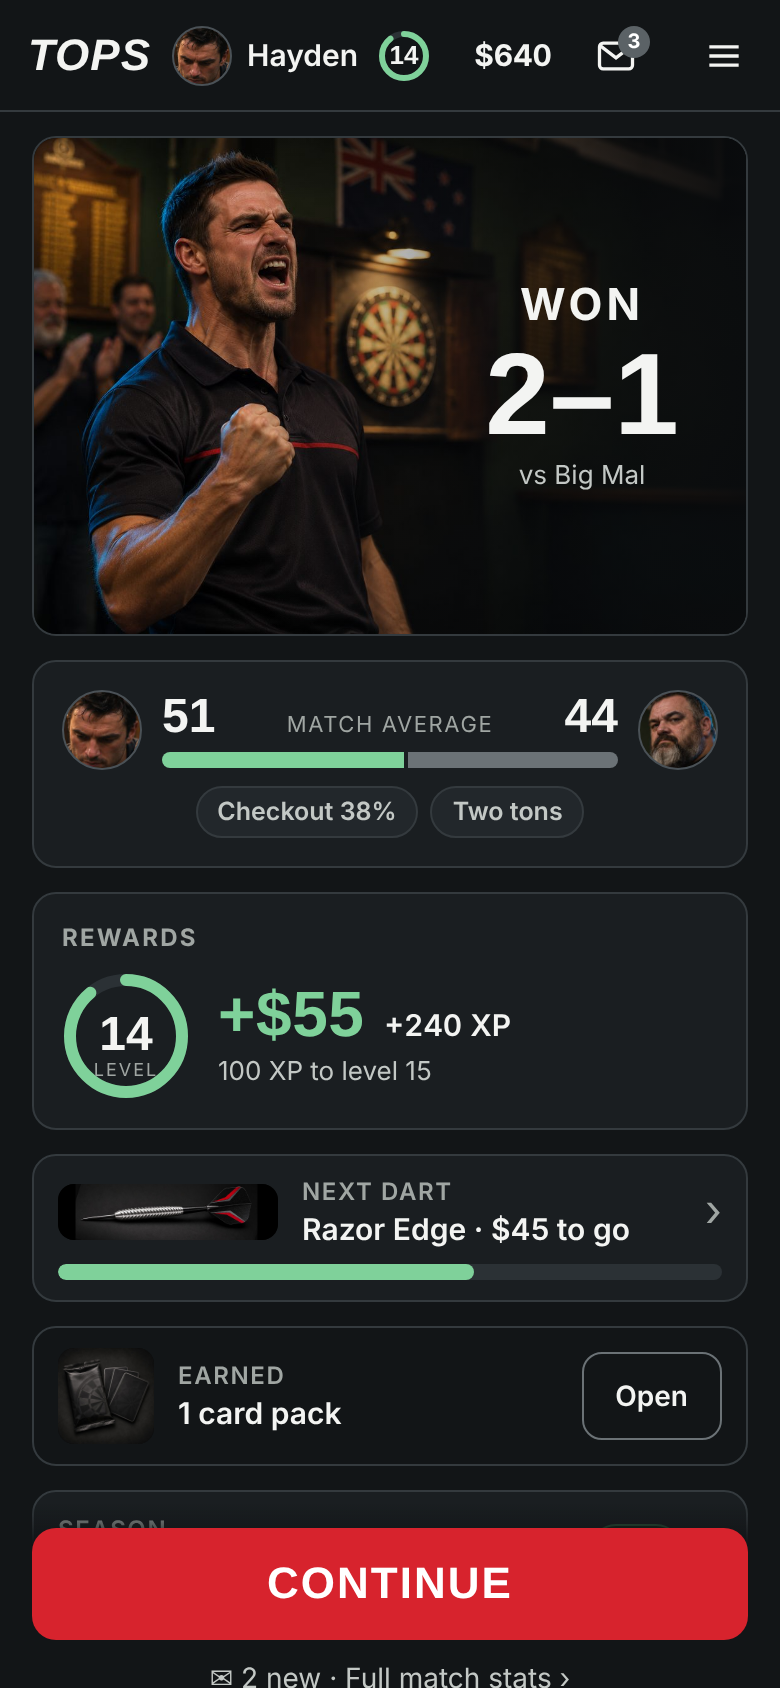
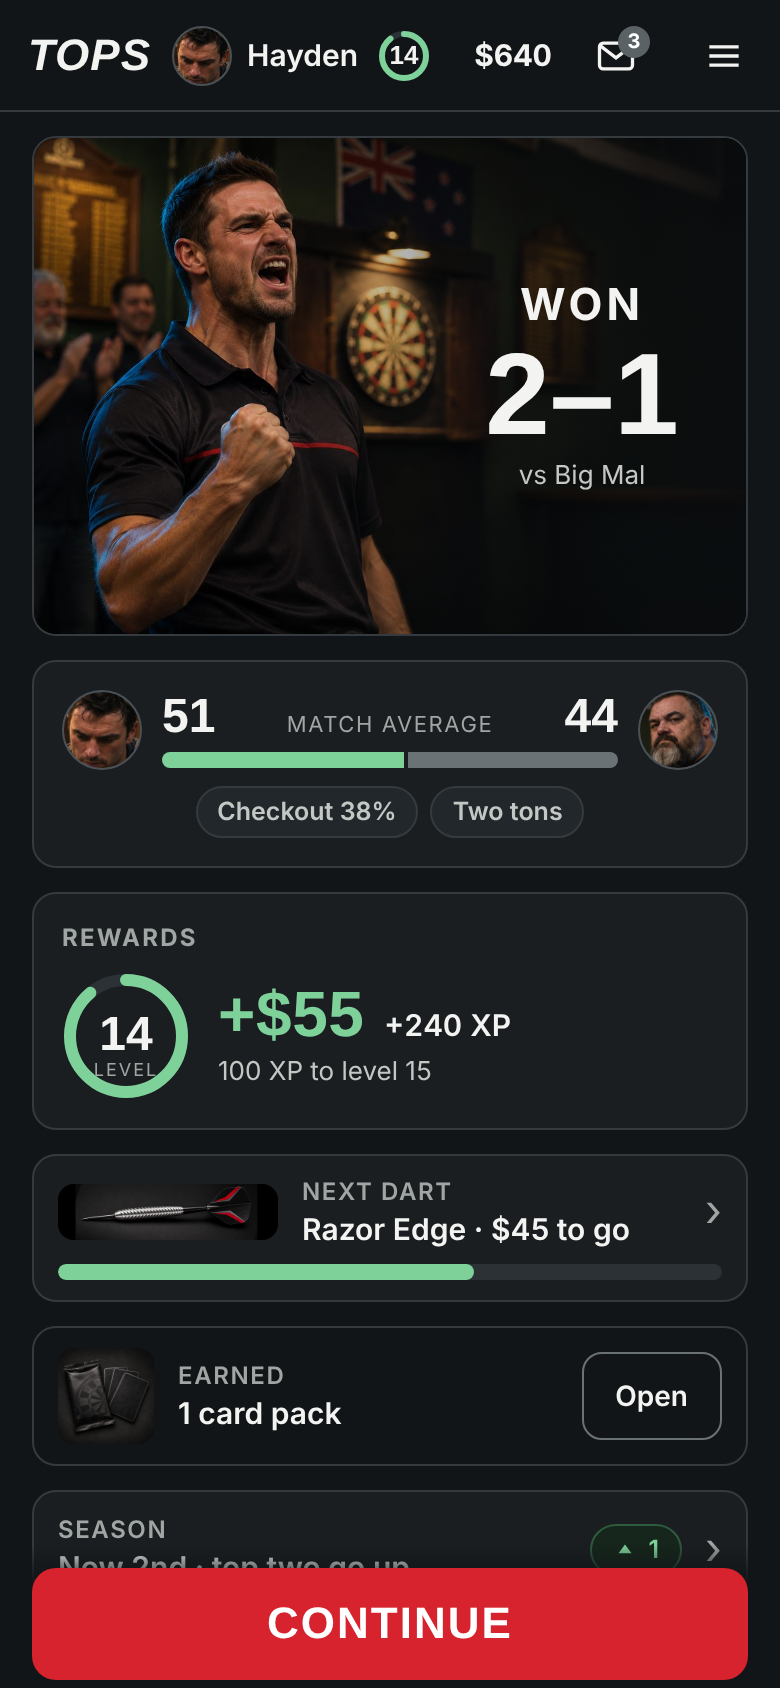
EXP-UX v9.1 frozen: ChatGPT 8.7 APPROVE; shirt tile says coming soon, Result clearance above Continue; design-critique v9
Claude-Session: https://claude.ai/code/session_01WmQEKYuzjKWgLqY2q8YZP3

Changed region(s): [[0.0308, 0.8934, 0.9846, 1.0]]

diff --git a/wip/ux/proto/index.html b/wip/ux/proto/index.html
@@ -287,7 +287,7 @@ function locker(){const k=kit(),seg=`<div class="seg" role="tablist">${[['load',
   <div class="mlab"><span><span style="display:inline-block;width:10px;height:6px;border-radius:2px;background:var(--good);margin-right:5px"></span>You</span><span><span style="display:inline-block;width:10px;height:6px;border-radius:2px;background:repeating-linear-gradient(135deg,#7fd19a 0 3px,#2f5a3e 3px 6px);margin-right:5px"></span>From your darts</span><span>Cap ${CAP} at the Club</span></div></div>
  <div class="sh" style="margin-top:2px"><h3>Kit</h3></div>
  <div class="g2"><button class="card" type="button" data-go="shop" data-sel="${S.eq}" style="padding:0;gap:0;overflow:hidden"><div class="slot sq"><div class="im" style="background-image:url(img/g_dsq_${d.id}.jpg)"></div><span class="chip" style="position:absolute;left:8px;top:8px">Equipped</span></div><div style="padding:10px 12px 12px;display:flex;flex-direction:column;gap:2px"><small class="kick" style="font-size:11px">Darts</small><span class="t2" style="font-size:14px">${d.n}</span><span class="sub" style="font-size:12.5px">Change in Shop ›</span></div></button>
-  <button class="card" type="button" id="kitShirt" style="padding:0;gap:0;overflow:hidden"><div class="slot sq"><div class="im" style="background-image:url(img/g_shirt.jpg)"></div><span class="chip" style="position:absolute;left:8px;top:8px">Wearing</span></div><div style="padding:10px 12px 12px;display:flex;flex-direction:column;gap:2px"><small class="kick" style="font-size:11px">Shirt</small><span class="t2" style="font-size:14px">Charcoal, red stripe</span><span class="sub" style="font-size:12.5px">Change in Shop ›</span></div></button></div>
+  <button class="card" type="button" id="kitShirt" style="padding:0;gap:0;overflow:hidden"><div class="slot sq"><div class="im" style="background-image:url(img/g_shirt.jpg)"></div><span class="chip" style="position:absolute;left:8px;top:8px">Wearing</span></div><div style="padding:10px 12px 12px;display:flex;flex-direction:column;gap:2px"><small class="kick" style="font-size:11px">Shirt</small><span class="t2" style="font-size:14px">Charcoal, red stripe</span><span class="sub" style="font-size:12.5px">Shirts coming soon</span></div></button></div>
  ${S.packs?row({k:'Cards',t:S.packs+' pack'+(S.packs>1?'s':'')+' waiting',left:'<div class="slot sq r8" style="width:44px"><div class="im" style="background-image:url(img/g_pack.jpg)"></div></div>',id:'toCards'}):''}`;}
 function result(){const L=S.lost,E=S.mode==='exh',M=S.mode==='money',r=S.rw||{cash:55,xp:240};
  const up=S.xp.lv>S.xp.preLv;
@@ -299,14 +299,14 @@ function result(){const L=S.lost,E=S.mode==='exh',M=S.mode==='money',r=S.rw||{ca
   `<button class="row" type="button" data-go="shop" data-sel="razor" style="flex-direction:column;align-items:stretch;gap:8px"><span style="display:flex;align-items:center;gap:12px"><div class="slot dart r8" style="width:110px;flex:0 0 110px"><div class="im" style="background-image:url(img/g_ds_razor.jpg)"></div></div><span class="tx"><small>Next dart</small><span class="t2">Razor Edge · $45 to go</span></span><span class="chev">›</span></span><div class="bar"><i style="width:${(120-45)/120*100}%"></i></div></button>`;
  const pack=S.packs?`<div class="row" style="cursor:default;background:var(--bg)"><div class="slot sq r8" style="width:48px"><div class="im" style="background-image:url(img/g_pack.jpg)"></div></div><span class="tx"><small>Earned</small><span class="t2">1 card pack</span></span><button class="ghost" type="button" id="rOpen">${S.rOpened?'Opened':'Open'}</button></div>`:'';
  const tbl=M||E?row({k:'Season',t:'Table unchanged',s:M?'Money matches don’t count':'Exhibitions don’t count',go:'season'}):`<button class="row" type="button" data-go="season"><span class="tx"><small>Season</small><span class="t2">${L?'Now 4th · 2 pts off 2nd':'Now 2nd · top two go up'}</span></span><span class="chip ${L?'':'g'}" style="${L?'color:var(--bad)':''}">${L?IC.dn+' 1':IC.up+' 1'}</span><span class="chev">›</span></button>`;
- return head+h2h+rewards+want+pack+tbl+`<button class="link" type="button" id="rMsgs" style="align-self:center;color:var(--ink2)">✉ 2 new · Full match stats ›</button><div style="height:8px"></div><div class="pin"><button class="primary" type="button" id="cont"><b>Continue</b></button></div>`;}
+ return head+h2h+rewards+want+pack+tbl+'<div style="height:28px"></div>'+`<button class="link" type="button" id="rMsgs" style="align-self:center;color:var(--ink2)">✉ 2 new · Full match stats ›</button><div style="height:8px"></div><div class="pin"><button class="primary" type="button" id="cont"><b>Continue</b></button></div>`;}
 function practice(){const td=S.tryDart?DARTS.find(x=>x.id===S.tryDart):null;return (td?`<div class="card" style="flex-direction:row;align-items:center;gap:12px"><div class="slot dart r8" style="width:120px"><div class="im" style="background-image:url(img/g_ds_${td.id}.jpg)"></div></div><div style="flex:1"><small class="kick" style="font-size:11px">Free try</small><div class="t2">${td.n}</div><div class="sub">One session · no XP or money</div></div></div>`:'')+`<div class="hero" style="height:180px"><div class="im" style="background-image:url(img/g_locker.jpg);background-position:30% 40%;filter:brightness(.7)"></div><div class="tx"><span class="kick">Practice · free</span><span class="big" style="font-size:34px">Round the Clock</span><div class="chips">${chip('Doubles 14%','l')}${chip('+20 XP · capped','g')}</div></div></div><button class="primary" type="button" id="prGo"><b>Start practice</b></button><div class="card"><span class="sub">The Practice tab gets its own round. This stub answers the links that point here.</span></div>`;}
 /* ---------- shell ---------- */
 const TABS=[['tonight','Tonight'],['season','Season'],['shop','Shop'],['locker','Locker'],['practice','Practice']];
 function hdr(){$('#hdRing').innerHTML=ring(pct(),S.xp.lv,30);$('#bank').textContent=money(S.bank);$('#msgN').hidden=!S.msgs;$('#msgN').textContent=S.msgs;}
 function render(){const res=S.tab==='result';$('#tabs').hidden=res;
  $('#tabs').innerHTML=TABS.map(([k,n])=>`<button role="tab" data-tab="${k}" aria-selected="${S.tab===k}">${n}${k==='locker'&&(S.pts||S.packs)?'<i class="dot" aria-label="something waiting"></i>':''}</button>`).join('');
- const f={tonight,season,shop,locker,result,practice}[S.tab];$('#main').innerHTML=`<section class="scr" data-scr="${S.tab}">${f()}</section>`;hdr();wire();}
+ const f={tonight,season,shop,locker,result,practice}[S.tab];$('#main').innerHTML=`<section class="scr" data-scr="${S.tab}" ${res?'style="padding-bottom:4px"':''}>${f()}${res?'':''}</section>`;hdr();wire();}
 function go(t,keep){S.tab=t;render();if(!keep){const s=$('.scr');if(s)s.scrollTop=0;}if(t==='shop')center();if(t==='result')anim();}
 function center(){requestAnimationFrame(()=>{const t=$('#thumbs'),q=t&&t.querySelector('[aria-pressed="true"]');if(q)t.scrollLeft=Math.max(0,q.offsetLeft-t.offsetLeft-(t.clientWidth-q.clientWidth)/2);});}
 function sheet(h){const p=document.createElement('div');p.className='ov';p.innerHTML=`<div class="pc" role="dialog" style="padding:16px;display:flex;flex-direction:column;gap:12px">${h}<button class="ghost" type="button" style="align-self:center">Close</button></div>`;$('#phone').appendChild(p);p.onclick=e=>{if(e.target===p||e.target.closest('.ghost'))p.remove();};}

diff --git a/wip/ux/proto/v9.html b/wip/ux/proto/v9.html
@@ -287,7 +287,7 @@ function locker(){const k=kit(),seg=`<div class="seg" role="tablist">${[['load',
   <div class="mlab"><span><span style="display:inline-block;width:10px;height:6px;border-radius:2px;background:var(--good);margin-right:5px"></span>You</span><span><span style="display:inline-block;width:10px;height:6px;border-radius:2px;background:repeating-linear-gradient(135deg,#7fd19a 0 3px,#2f5a3e 3px 6px);margin-right:5px"></span>From your darts</span><span>Cap ${CAP} at the Club</span></div></div>
  <div class="sh" style="margin-top:2px"><h3>Kit</h3></div>
  <div class="g2"><button class="card" type="button" data-go="shop" data-sel="${S.eq}" style="padding:0;gap:0;overflow:hidden"><div class="slot sq"><div class="im" style="background-image:url(img/g_dsq_${d.id}.jpg)"></div><span class="chip" style="position:absolute;left:8px;top:8px">Equipped</span></div><div style="padding:10px 12px 12px;display:flex;flex-direction:column;gap:2px"><small class="kick" style="font-size:11px">Darts</small><span class="t2" style="font-size:14px">${d.n}</span><span class="sub" style="font-size:12.5px">Change in Shop ›</span></div></button>
-  <button class="card" type="button" id="kitShirt" style="padding:0;gap:0;overflow:hidden"><div class="slot sq"><div class="im" style="background-image:url(img/g_shirt.jpg)"></div><span class="chip" style="position:absolute;left:8px;top:8px">Wearing</span></div><div style="padding:10px 12px 12px;display:flex;flex-direction:column;gap:2px"><small class="kick" style="font-size:11px">Shirt</small><span class="t2" style="font-size:14px">Charcoal, red stripe</span><span class="sub" style="font-size:12.5px">Change in Shop ›</span></div></button></div>
+  <button class="card" type="button" id="kitShirt" style="padding:0;gap:0;overflow:hidden"><div class="slot sq"><div class="im" style="background-image:url(img/g_shirt.jpg)"></div><span class="chip" style="position:absolute;left:8px;top:8px">Wearing</span></div><div style="padding:10px 12px 12px;display:flex;flex-direction:column;gap:2px"><small class="kick" style="font-size:11px">Shirt</small><span class="t2" style="font-size:14px">Charcoal, red stripe</span><span class="sub" style="font-size:12.5px">Shirts coming soon</span></div></button></div>
  ${S.packs?row({k:'Cards',t:S.packs+' pack'+(S.packs>1?'s':'')+' waiting',left:'<div class="slot sq r8" style="width:44px"><div class="im" style="background-image:url(img/g_pack.jpg)"></div></div>',id:'toCards'}):''}`;}
 function result(){const L=S.lost,E=S.mode==='exh',M=S.mode==='money',r=S.rw||{cash:55,xp:240};
  const up=S.xp.lv>S.xp.preLv;
@@ -299,14 +299,14 @@ function result(){const L=S.lost,E=S.mode==='exh',M=S.mode==='money',r=S.rw||{ca
   `<button class="row" type="button" data-go="shop" data-sel="razor" style="flex-direction:column;align-items:stretch;gap:8px"><span style="display:flex;align-items:center;gap:12px"><div class="slot dart r8" style="width:110px;flex:0 0 110px"><div class="im" style="background-image:url(img/g_ds_razor.jpg)"></div></div><span class="tx"><small>Next dart</small><span class="t2">Razor Edge · $45 to go</span></span><span class="chev">›</span></span><div class="bar"><i style="width:${(120-45)/120*100}%"></i></div></button>`;
  const pack=S.packs?`<div class="row" style="cursor:default;background:var(--bg)"><div class="slot sq r8" style="width:48px"><div class="im" style="background-image:url(img/g_pack.jpg)"></div></div><span class="tx"><small>Earned</small><span class="t2">1 card pack</span></span><button class="ghost" type="button" id="rOpen">${S.rOpened?'Opened':'Open'}</button></div>`:'';
  const tbl=M||E?row({k:'Season',t:'Table unchanged',s:M?'Money matches don’t count':'Exhibitions don’t count',go:'season'}):`<button class="row" type="button" data-go="season"><span class="tx"><small>Season</small><span class="t2">${L?'Now 4th · 2 pts off 2nd':'Now 2nd · top two go up'}</span></span><span class="chip ${L?'':'g'}" style="${L?'color:var(--bad)':''}">${L?IC.dn+' 1':IC.up+' 1'}</span><span class="chev">›</span></button>`;
- return head+h2h+rewards+want+pack+tbl+`<button class="link" type="button" id="rMsgs" style="align-self:center;color:var(--ink2)">✉ 2 new · Full match stats ›</button><div style="height:8px"></div><div class="pin"><button class="primary" type="button" id="cont"><b>Continue</b></button></div>`;}
+ return head+h2h+rewards+want+pack+tbl+'<div style="height:28px"></div>'+`<button class="link" type="button" id="rMsgs" style="align-self:center;color:var(--ink2)">✉ 2 new · Full match stats ›</button><div style="height:8px"></div><div class="pin"><button class="primary" type="button" id="cont"><b>Continue</b></button></div>`;}
 function practice(){const td=S.tryDart?DARTS.find(x=>x.id===S.tryDart):null;return (td?`<div class="card" style="flex-direction:row;align-items:center;gap:12px"><div class="slot dart r8" style="width:120px"><div class="im" style="background-image:url(img/g_ds_${td.id}.jpg)"></div></div><div style="flex:1"><small class="kick" style="font-size:11px">Free try</small><div class="t2">${td.n}</div><div class="sub">One session · no XP or money</div></div></div>`:'')+`<div class="hero" style="height:180px"><div class="im" style="background-image:url(img/g_locker.jpg);background-position:30% 40%;filter:brightness(.7)"></div><div class="tx"><span class="kick">Practice · free</span><span class="big" style="font-size:34px">Round the Clock</span><div class="chips">${chip('Doubles 14%','l')}${chip('+20 XP · capped','g')}</div></div></div><button class="primary" type="button" id="prGo"><b>Start practice</b></button><div class="card"><span class="sub">The Practice tab gets its own round. This stub answers the links that point here.</span></div>`;}
 /* ---------- shell ---------- */
 const TABS=[['tonight','Tonight'],['season','Season'],['shop','Shop'],['locker','Locker'],['practice','Practice']];
 function hdr(){$('#hdRing').innerHTML=ring(pct(),S.xp.lv,30);$('#bank').textContent=money(S.bank);$('#msgN').hidden=!S.msgs;$('#msgN').textContent=S.msgs;}
 function render(){const res=S.tab==='result';$('#tabs').hidden=res;
  $('#tabs').innerHTML=TABS.map(([k,n])=>`<button role="tab" data-tab="${k}" aria-selected="${S.tab===k}">${n}${k==='locker'&&(S.pts||S.packs)?'<i class="dot" aria-label="something waiting"></i>':''}</button>`).join('');
- const f={tonight,season,shop,locker,result,practice}[S.tab];$('#main').innerHTML=`<section class="scr" data-scr="${S.tab}">${f()}</section>`;hdr();wire();}
+ const f={tonight,season,shop,locker,result,practice}[S.tab];$('#main').innerHTML=`<section class="scr" data-scr="${S.tab}" ${res?'style="padding-bottom:4px"':''}>${f()}${res?'':''}</section>`;hdr();wire();}
 function go(t,keep){S.tab=t;render();if(!keep){const s=$('.scr');if(s)s.scrollTop=0;}if(t==='shop')center();if(t==='result')anim();}
 function center(){requestAnimationFrame(()=>{const t=$('#thumbs'),q=t&&t.querySelector('[aria-pressed="true"]');if(q)t.scrollLeft=Math.max(0,q.offsetLeft-t.offsetLeft-(t.clientWidth-q.clientWidth)/2);});}
 function sheet(h){const p=document.createElement('div');p.className='ov';p.innerHTML=`<div class="pc" role="dialog" style="padding:16px;display:flex;flex-direction:column;gap:12px">${h}<button class="ghost" type="button" style="align-self:center">Close</button></div>`;$('#phone').appendChild(p);p.onclick=e=>{if(e.target===p||e.target.closest('.ghost'))p.remove();};}

diff --git a/wip/ux/proto/critique_v9.md b/wip/ux/proto/critique_v9.md
@@ -1,0 +1,46 @@
+## Design Critique: TOPS career screens v9.1 (round 4, Hayden 17:52)
+
+### Overall impression
+Every section now has a job, a first read and a treatment from one component set (card, chip, meter, ring, row, image slot). The pages read as one product. The two weakest spots left are the stats graph's small tap targets and the money match being the only fixture art not from a real venue tier yet.
+
+### Section by section (what it's for → first read → treatment)
+| Screen · section | For | First read | Treatment |
+|---|---|---|---|
+| Tonight · hero | Who you play | VS BIG MAL | Photo, kicker, stake chip |
+| Tonight · head-to-head | Who's in form | 47 vs 42 | Faces + tug bar, format line |
+| Tonight · primary | Play | WALK ON | Red, entry in the button |
+| Tonight · season | Where you stand | 3rd · 2 pts off 2nd | Position dots + cut line → Season |
+| Tonight · money match | Side cash | MONEY MATCH | Back-room art, Win $100 chip |
+| Tonight · next dart | What to want | Razor Edge | Whole dart 16:9, level meter |
+| Tonight · goal | A target for tonight | Average 61+ | Meter with form and target tick, +$40 |
+| Season · header | The race | 3rd | Week ring, promotion chip |
+| Season · table | The race in full | Your row | Highlighted row, dashed cut line |
+| Season · road | The career arc | Club (you) | Stepper Pub → Worlds |
+| Shop · product | The dart | Name | Whole dart, brand + state chips |
+| Shop · compare | Is it better | +4 Scoring | Yours vs this bars, coloured delta, weight chip |
+| Shop · lock / short | Why not yet | Level 15 / $15 to go | Lock panel: chips + progress + way forward |
+| Shop · all darts | Browse | Selected tile | Whole-dart strips, state labels |
+| Locker · level | Progress | 14 | Ring, XP to next, next unlock |
+| Locker · your game | Strengths | Scoring 20 | Segmented to the cap, darts bonus as ghost, + to spend |
+| Locker · kit | What you carry | Dart + shirt | 1:1 product tiles, Equipped/Wearing chips |
+| Cards · packs | Open | 3 packs waiting | Pack art, set meter, one primary |
+| Stats | How good | 47.2 | 4 tiles, tappable form graph vs goal, records |
+| Trophies | Pride | 2 of 14 | Cabinet photo, rows open detail |
+| Result · header | Win or loss | WON 2–1 | Photo + lockup |
+| Result · rewards | What you got | +$55 | Ring, cash big, XP, level-up line |
+| Result · next | What's next | Razor Edge $45 to go | Dart strip + money bar |
+
+### Usability
+| Finding | Severity | Recommendation |
+|---|---|---|
+| Form graph tap targets are 32 px columns | 🟢 Minor | Fine on a phone (full height columns); keep |
+| Shafts/Shirts tabs are placeholders | 🟢 Minor | Marked "soon" and dimmed |
+| Money match art is the only non-tier image | 🟢 Minor | Per-tier back rooms in the build set |
+
+### Accessibility
+- Body text ≥ 13 px; labels 12 px caps; contrast ≥ 4.5:1 on cards; every tappable thing ≥ 44 px (plus buttons 30 px inside a 44 px row, flagged for the build).
+
+### Priority for the build
+1. `+` buttons to 44 px hit areas.
+2. Per-tier hero and back-room images (6 more).
+3. Lock one player reference before the build set.
